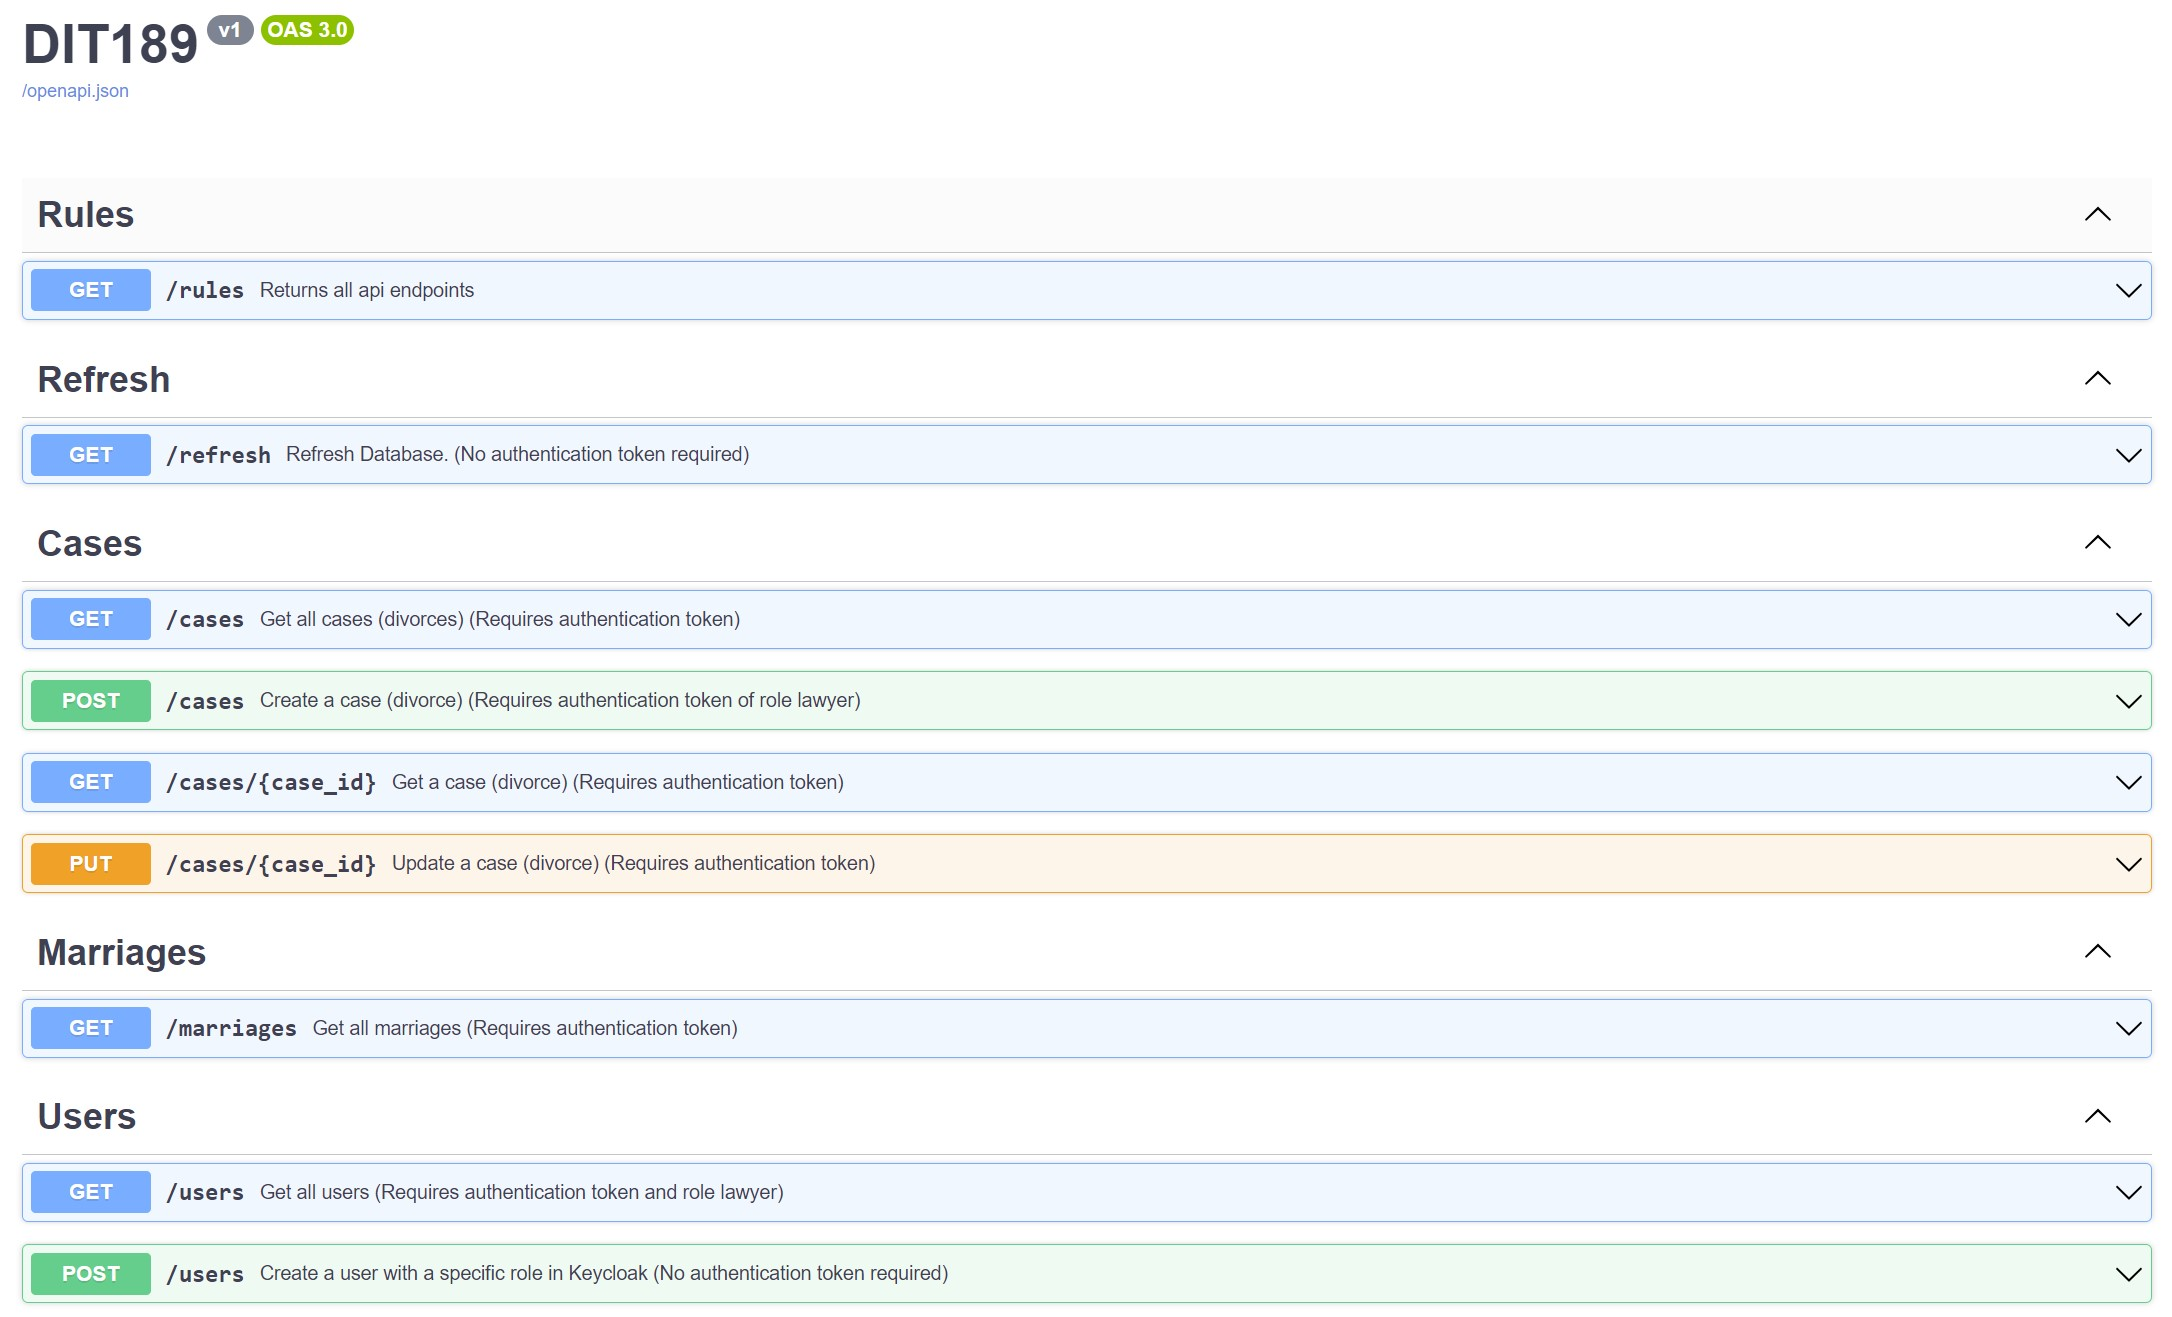
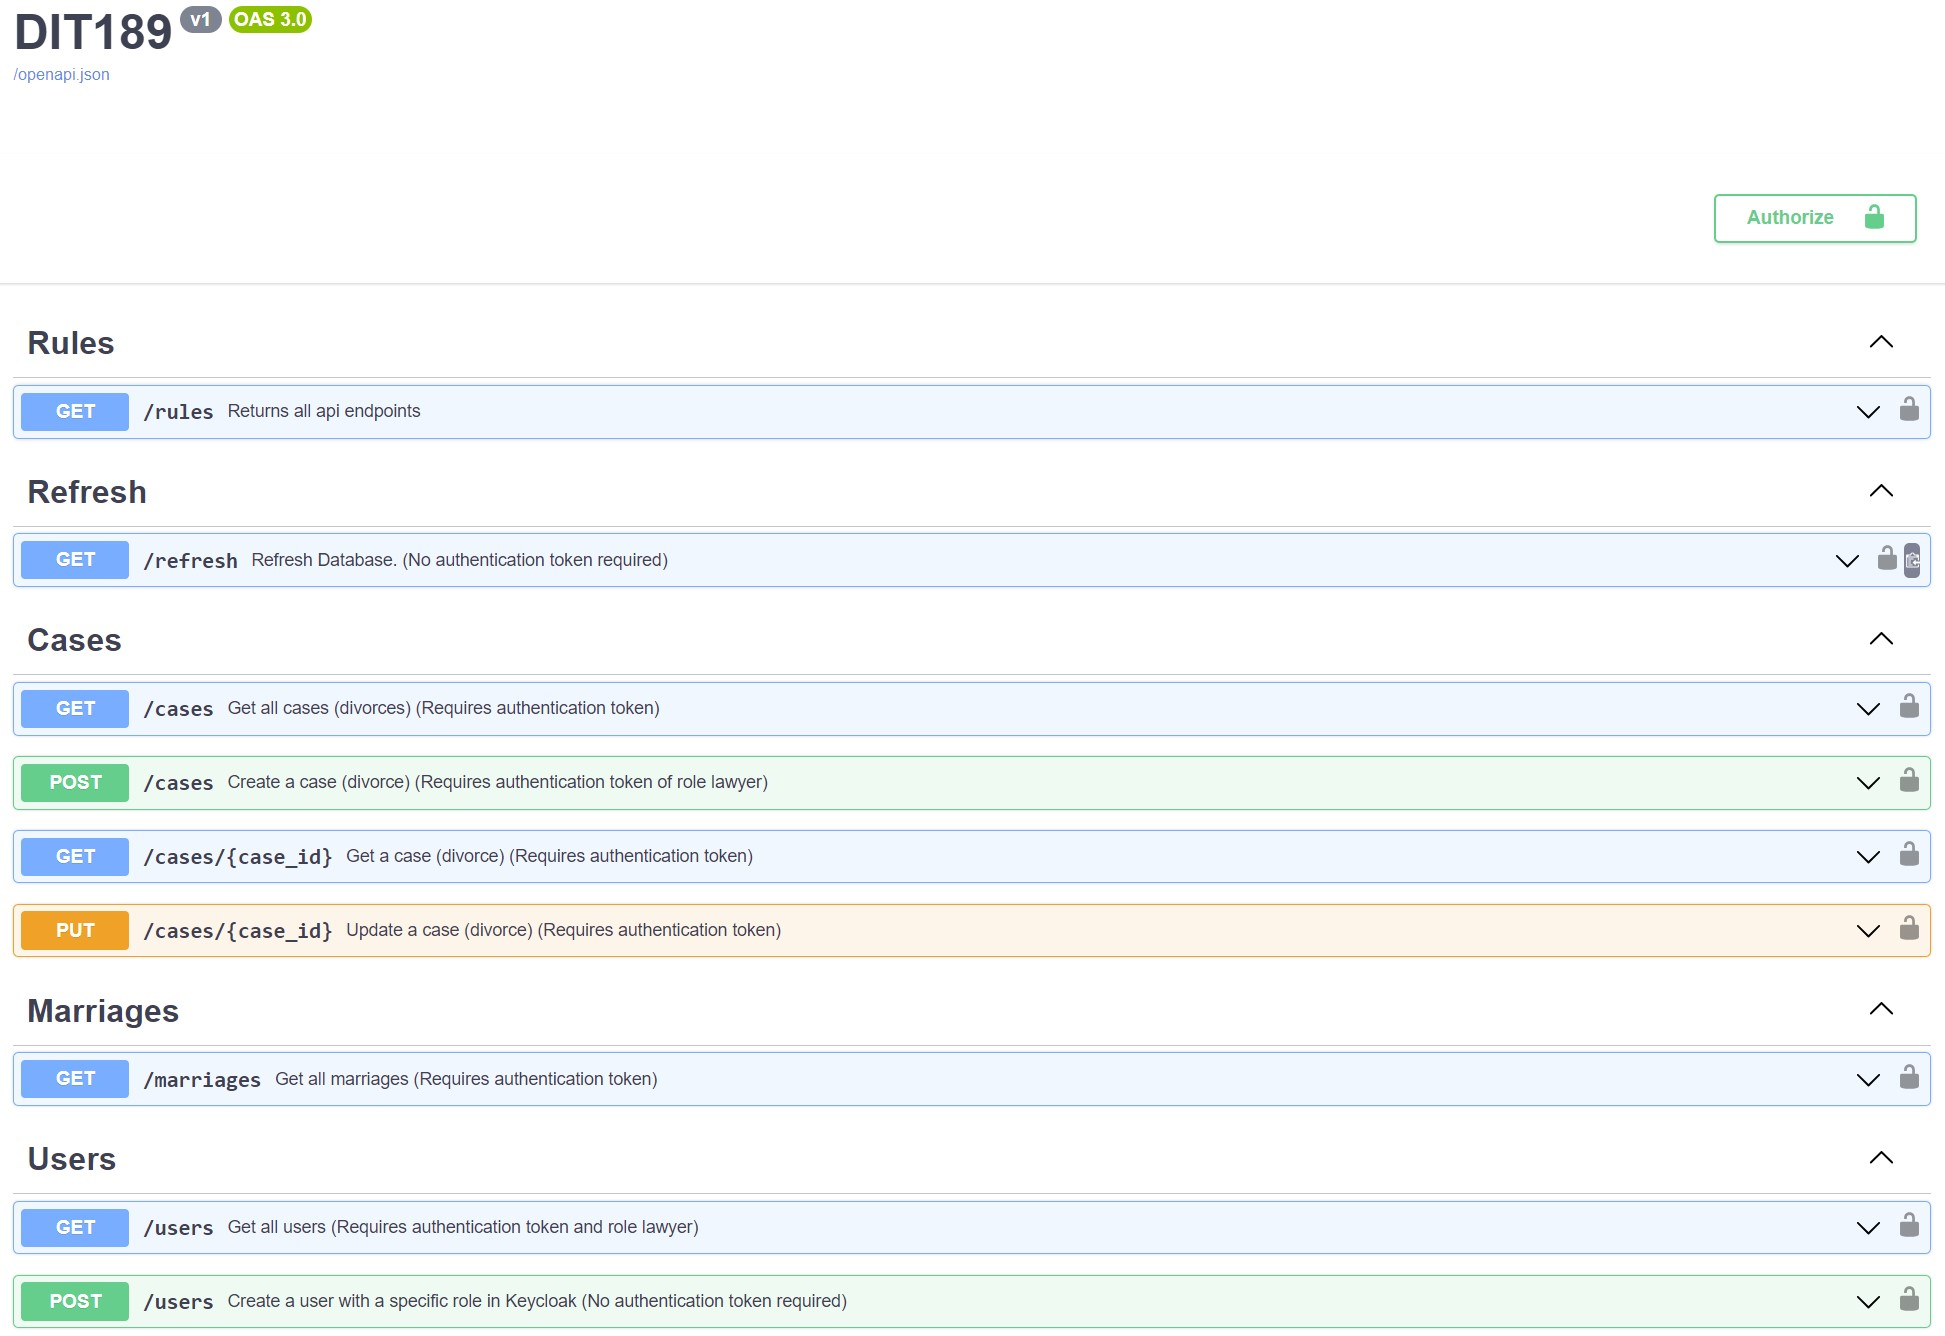
Add Authentication to swagger UI

diff --git a/app/api/factory.py b/app/api/factory.py
@@ -31,6 +31,13 @@ def create_app(config_name):
     # Connect flask_smorest to the app
     api = Api(app)
 
+    # Add Authorize button (Authentication functionality) to swagger
+    # https://github.com/marshmallow-code/flask-smorest/issues/36#issuecomment-543858430
+    api.spec.components.security_scheme(
+        "bearerAuth", {"type":"http", "scheme": "bearer", "bearerFormat": "JWT"}
+    )
+    api.spec.options["security"] = [{"bearerAuth": []}]
+
     # Register Blueprints
     register_blueprints(api)
 

diff --git a/app/api/resources/divorce.py b/app/api/resources/divorce.py
@@ -23,7 +23,7 @@ class DivorceList(MethodView):
 
         Accepts query params:
         - Multiple of type `&status=COMPLETED&status=CANCELLED` etc (Optional)
-        - `self=True/False` to return only divorces (cases) wher user is involved
+        - `self=True/False` to return only divorces (cases) wher user is involved, or all
         - `?contains` to filter objects containing substring in *status, aggrement_text*
         """
         

diff --git a/README.md b/README.md
@@ -50,9 +50,12 @@ Implemented with [`marshmallow`](https://marshmallow.readthedocs.io/en/stable/)
 - `marriage`
 - `refresh` (Repopulates database. For development/presentation puprposes)
 
-### Authentication
+### Authentication/Authotization
 
-User authentication implemented with [Keycloak](https://www.keycloak.org/), along with the python library [python-keycloak](https://pypi.org/project/python-keycloak/)
+- User authentication implemented with [Keycloak](https://www.keycloak.org/), along with the python library [python-keycloak](https://pypi.org/project/python-keycloak/)  
+- A [decorator is implemented](https://github.com/akotronis/DIT189/blob/main/app/api/keycloak.py#L157) which performs user authentication and authorization based on role using *Header Authorization Bearer token*  
+- In order to do authentication/authorization from swwagger interface, click *Authorize* button on the top right and paste the user token  
+  This will add the *Authorization Bearer <token>* on each request header,
 
 ### Endpoints
 
